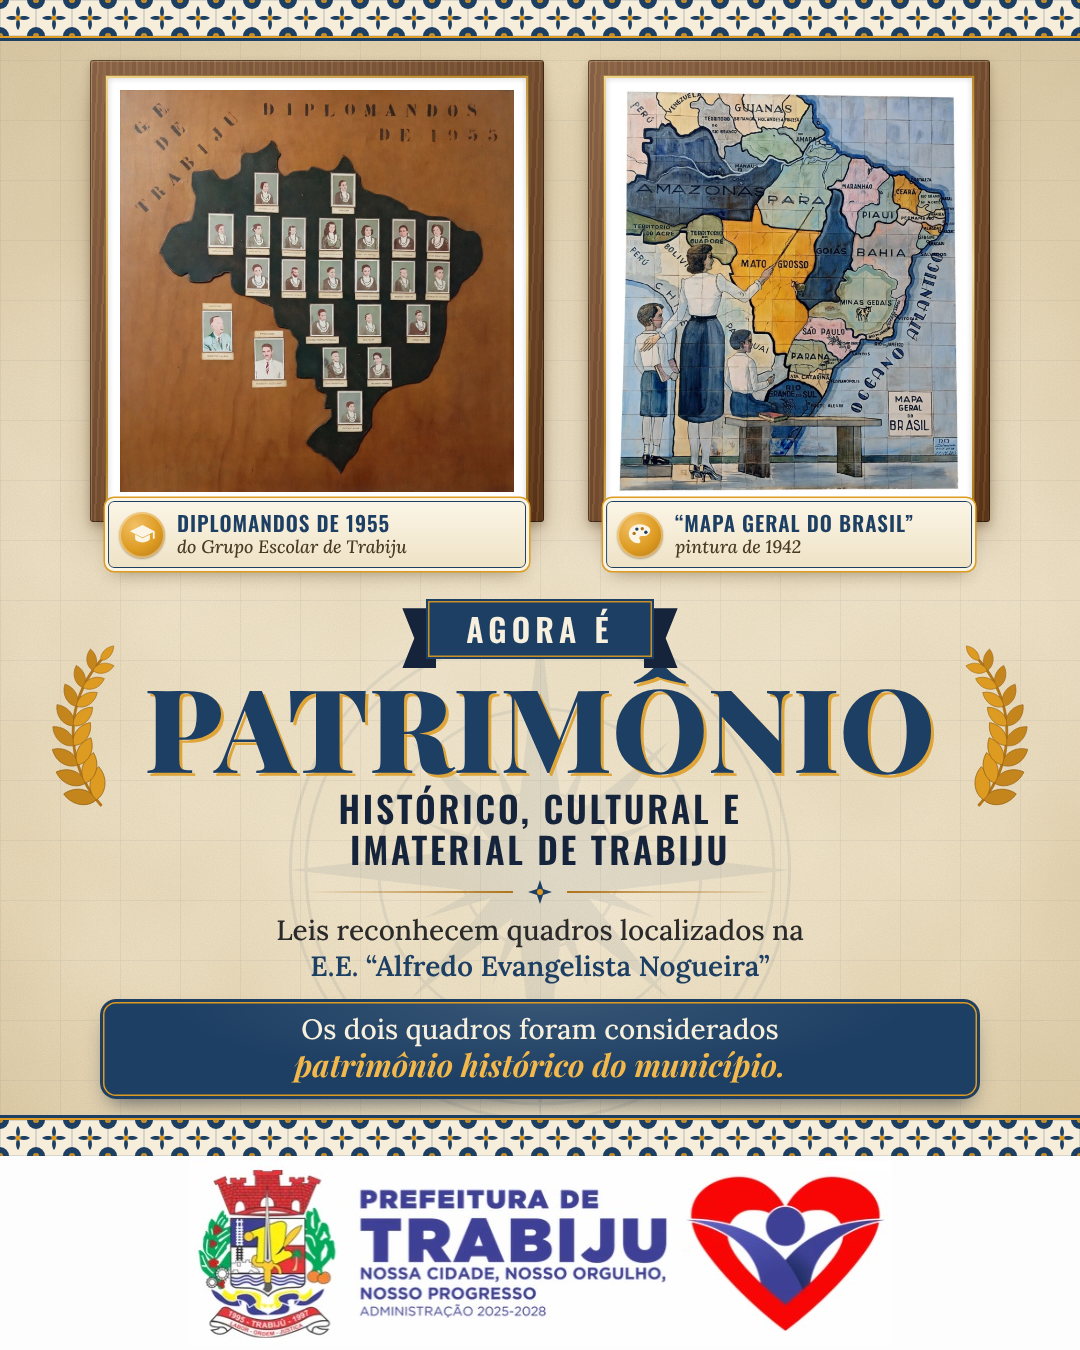
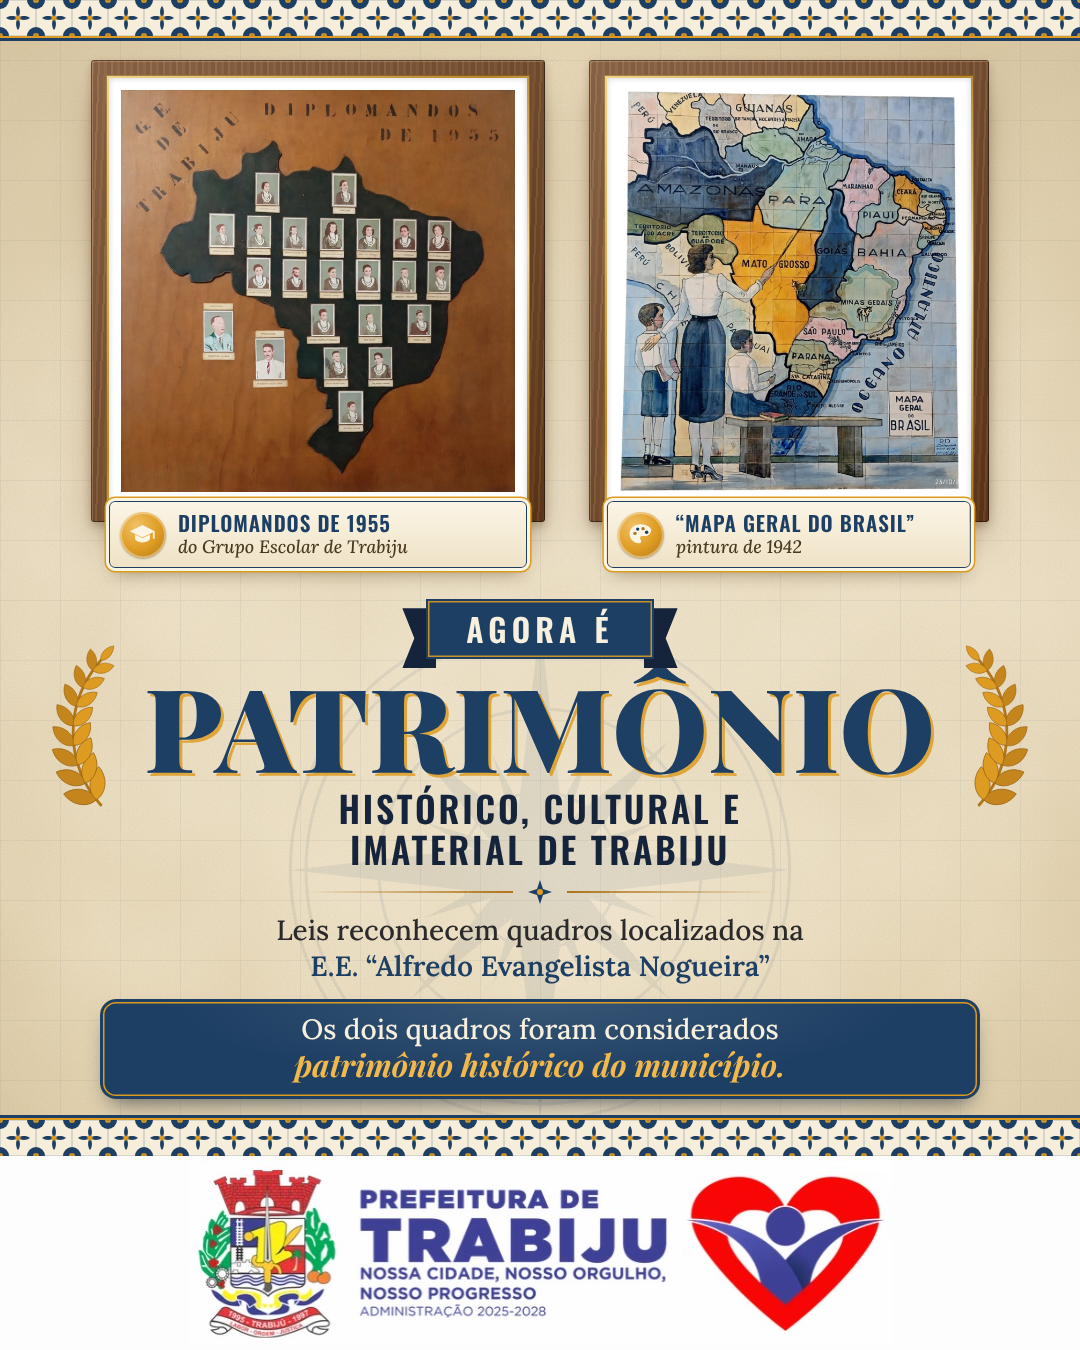
Usa a foto do mural sem nenhum retoque
O mural "Mapa Geral do Brasil" é uma pintura real e não pode ser
alterado. Remove o apagamento da data da câmera: a foto agora só é
enquadrada, e o script confere que o recorte é idêntico ao original.
Fica uma única versão da arte.

Claude-Session: https://claude.ai/code/session_01U35j9tFTVVuZcFM6qkXgpm

diff --git a/artes-estaticas/patrimonio-trabiju/render.js b/artes-estaticas/patrimonio-trabiju/render.js
@@ -1,18 +1,15 @@
 // Renderiza a arte em PNG 1080x1350 (feed do Instagram/Facebook).
-// Uso: node render.js            -> saida/patrimonio-trabiju-feed.png (mural sem a data da câmera)
-//      node render.js cru        -> saida/patrimonio-trabiju-feed-mural-cru.png (foto do mural intocada)
+// Uso: node render.js  -> saida/patrimonio-trabiju-feed.png
 const { chromium } = require('playwright');
 const path = require('path');
 
 (async () => {
-  const cru = process.argv[2] === 'cru';
   const browser = await chromium.launch();
   const page = await browser.newPage({ viewport: { width: 1080, height: 1350 }, deviceScaleFactor: 1 });
-  const url = 'file://' + path.join(__dirname, 'index.html') + (cru ? '?mural=cru' : '');
-  await page.goto(url, { waitUntil: 'load' });
+  await page.goto('file://' + path.join(__dirname, 'index.html'), { waitUntil: 'load' });
   await page.evaluate(() => document.fonts.ready);
   await page.waitForTimeout(300);
-  const nome = cru ? 'patrimonio-trabiju-feed-mural-cru.png' : 'patrimonio-trabiju-feed.png';
+  const nome = 'patrimonio-trabiju-feed.png';
   await page.locator('#arte').screenshot({ path: path.join(__dirname, 'saida', nome) });
   await browser.close();
   console.log('ok', nome);

diff --git a/artes-estaticas/patrimonio-trabiju/index.html b/artes-estaticas/patrimonio-trabiju/index.html
@@ -233,7 +233,7 @@
 
     <figure class="quadro">
       <div class="moldura"><div class="filete"><div class="passe">
-        <img id="mural" src="fotos/mural-sem-data.png" alt="Pintura Mapa Geral do Brasil">
+        <img src="fotos/mural-mapa-geral-do-brasil.png" alt="Pintura Mapa Geral do Brasil">
       </div></div></div>
       <figcaption class="plaqueta">
         <span class="icone">
@@ -284,11 +284,6 @@
 </div>
 
 <script>
-  // versão com a foto do mural 100% crua: index.html?mural=cru
-  if (new URLSearchParams(location.search).get('mural') === 'cru') {
-    document.getElementById('mural').src = 'fotos/mural-cru.png';
-  }
-
   // padrão de azulejo (inspirado nos azulejos de parede escolares)
   const azulejo = `<svg xmlns='http://www.w3.org/2000/svg' width='36' height='36' viewBox='0 0 36 36'>
     <rect width='36' height='36' fill='#f6eedb'/>

diff --git a/artes-estaticas/patrimonio-trabiju/preparar_fotos.py b/artes-estaticas/patrimonio-trabiju/preparar_fotos.py
@@ -5,11 +5,10 @@ O que este script faz, e só isso:
 1. Logo da Prefeitura: recorta o bloco brasão + nome + coração da arte oficial
    (fotos/originais/arte-prefeitura.jpg) e pinta de branco apenas a faixa da onda
    dourada/azul que encostava no topo do recorte. Os pixels da logo não mudam.
-2. Mural "Mapa Geral do Brasil": enquadra o mural (o fundo branco da foto continua
-   branco) e gera duas versões:
-     - mural-sem-data.png: apaga só os dígitos da data da câmera "23/10/2026 10:35",
-       que a câmera imprimiu sobre o piso pintado no canto inferior direito;
-     - mural-cru.png: a foto sem nenhum pixel alterado (só o enquadramento).
+2. Mural "Mapa Geral do Brasil": é uma pintura real e NÃO pode ser alterada.
+   A foto é só enquadrada (recorte retangular). A pintura ocupa x 153-1414 e
+   y 75-1562 da foto original, e a caixa abaixo a contém inteira, com margem.
+   Nenhum pixel é retocado, nem mesmo a data que a câmera imprimiu no canto.
 3. Quadro "Diplomandos de 1955": usado inteiro, sem corte nem ajuste.
 
 Nenhum filtro de cor, nitidez ou contraste é aplicado em nenhuma foto.
@@ -20,7 +19,6 @@ Uso: python3 -I preparar_fotos.py   (rodar dentro desta pasta)
 import shutil
 from pathlib import Path
 
-import cv2
 import numpy as np
 from PIL import Image
 from scipy import ndimage
@@ -47,32 +45,9 @@ def logo():
 
 
 def mural():
-    foto = np.asarray(Image.open(ORIG / "mural-mapa-geral-do-brasil.jpg").convert("RGB")).copy()
-    caixa = (148, 70, 1422, 1568)  # mural inteiro + margem do fundo branco
-
-    cru = foto[caixa[1]:caixa[3], caixa[0]:caixa[2]]
-    Image.fromarray(cru).save(SAIDA / "mural-cru.png")
-
-    # --- data da câmera: só a faixa x 1318-1545, y 1508-1552 da foto original ---
-    x0, y0, x1, y1 = 1318, 1508, 1545, 1552
-    trecho = foto[y0:y1, x0:x1].copy()
-    cinza = cv2.cvtColor(trecho, cv2.COLOR_RGB2GRAY).astype(int)
-    fundo_local = cv2.medianBlur(cv2.cvtColor(trecho, cv2.COLOR_RGB2GRAY), 21).astype(int)
-    # dígitos sobre o piso pintado: bem mais claros que o entorno
-    digitos_sobre_mural = (cinza - fundo_local) > 12
-    # borda do mural medida na foto: x <= 1414 e y <= 1556; além disso é fundo branco
-    yy, xx = np.mgrid[y0:y1, x0:x1]
-    fora_do_mural = (xx > 1414) | (yy > 1556)
-    mascara_mural = digitos_sobre_mural & ~fora_do_mural
-    mascara_mural = ndimage.binary_dilation(mascara_mural, iterations=3)
-    # o fundo branco também entra na máscara, para o preenchimento usar só a cor do piso
-    mascara = ((mascara_mural | fora_do_mural).astype(np.uint8)) * 255
-    limpo = cv2.inpaint(trecho, mascara, 4, cv2.INPAINT_TELEA)
-    limpo[fora_do_mural] = 255  # dígitos sobre o fundo branco viram fundo branco
-    foto[y0:y1, x0:x1] = limpo
-
-    sem_data = foto[caixa[1]:caixa[3], caixa[0]:caixa[2]]
-    Image.fromarray(sem_data).save(SAIDA / "mural-sem-data.png")
+    foto = Image.open(ORIG / "mural-mapa-geral-do-brasil.jpg")
+    caixa = (148, 70, 1416, 1568)  # pintura inteira (x 153-1414, y 75-1562) + fundo branco da foto
+    foto.crop(caixa).save(SAIDA / "mural-mapa-geral-do-brasil.png")
 
 
 def diplomandos():

diff --git a/artes-estaticas/patrimonio-trabiju/README.md b/artes-estaticas/patrimonio-trabiju/README.md
@@ -6,25 +6,23 @@ e a pintura **"Mapa Geral do Brasil"**.
 
 | Arquivo | O que é |
 |---|---|
-| `saida/patrimonio-trabiju-feed.png` | Versão final. A data da câmera impressa no canto do mural foi apagada (só os dígitos). |
-| `saida/patrimonio-trabiju-feed-mural-cru.png` | A mesma arte com a foto do mural sem nenhum pixel alterado (a data aparece). |
+| `saida/patrimonio-trabiju-feed.png` | A arte final. |
 | `index.html` | A arte em HTML/CSS. Paleta tirada do próprio mural. |
-| `preparar_fotos.py` | Recorta a logo, enquadra o mural e apaga a data da câmera. Documenta tudo o que foi feito nas imagens. |
-| `render.js` | Gera os PNGs com o Chromium do Playwright. |
+| `preparar_fotos.py` | Recorta a logo e enquadra o mural. Documenta tudo o que foi feito nas imagens. |
+| `render.js` | Gera o PNG com o Chromium do Playwright. |
 
 ## Fidelidade das imagens
 
 - **Fotos dos quadros**: entram como foram tiradas. Só são redimensionadas para caber na moldura, sem filtro de cor, nitidez ou contraste.
-- **Mural**: na versão final, só os pixels da data "23/10/2026 10:35" mudaram, num canto do piso pintado. São 2.066 pixels, 0,108% da foto. A pintura e o mapa ficam intactos.
+- **Mural "Mapa Geral do Brasil"**: é uma pintura real e não pode ser alterada. A foto só é enquadrada num recorte retangular que contém a pintura inteira. O script confere que os pixels do recorte são idênticos aos do original. Por isso o início da data da câmera ("23/10/2…") continua visível, pequeno, no canto inferior direito, como na foto.
 - **Logo da Prefeitura**: recortada da arte oficial na resolução original (703 × 185) e exibida em 1:1 sobre um fundo branco igual ao dela.
 
 ## Como gerar de novo
 
 ```bash
 cd artes-estaticas/patrimonio-trabiju
-python3 -I preparar_fotos.py   # precisa de pillow, numpy, scipy, opencv-python-headless
-node render.js                 # versão final
-node render.js cru             # versão com a foto do mural crua
+python3 -I preparar_fotos.py   # precisa de pillow, numpy, scipy
+node render.js
 ```
 
 ## Checagem pendente
